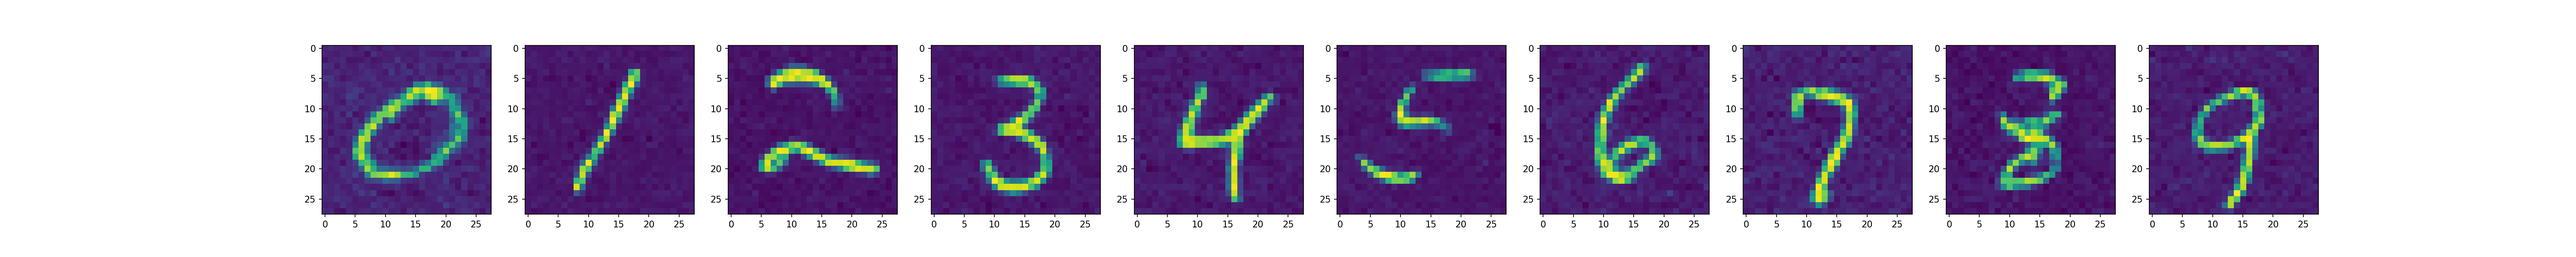
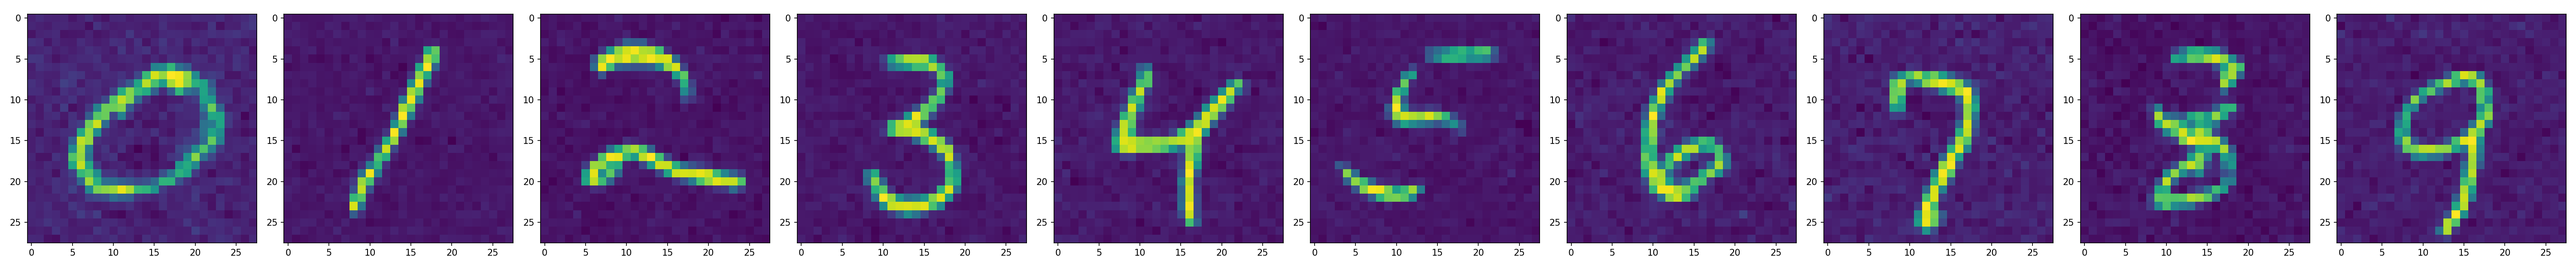
Update examples

diff --git a/examples/MNIST_continuous_bfn.py b/examples/MNIST_continuous_bfn.py
@@ -27,7 +27,7 @@ from torch_bfn.utils import str_to_torch_dtype, EMA
 
 def get_mnist() -> DataLoader:
     cuda_kwargs = {"num_workers": 1, "pin_memory": True, "shuffle": True}
-    train_kwargs = cuda_kwargs | {"batch_size": 512}
+    train_kwargs = cuda_kwargs | {"batch_size": 128}
 
     transform = transforms.Compose(
         [
@@ -81,7 +81,7 @@ def train(
         for batch in train_loader:
             X, y = batch
             X, y = X.to(device, dtype), y.to(device)
-            loss = model.loss(X, y, sigma_1=0.01).mean()
+            loss = model.loss(X, y, sigma_1=1e-3).mean()
             # loss = model.discrete_loss(X, y, sigma_1=0.01, n=30).mean()
             opt.zero_grad()
             loss.backward()
@@ -98,7 +98,7 @@ def train(
                 sigma_1=1e-5,
                 n_timesteps=20,
                 cond=sample_classes,
-                cond_scale=10.0,
+                cond_scale=7.0,
             ).squeeze(1)
             plot_samples(samples, f"outputs/mnist_samples_{epoch:03d}.png")
 
@@ -110,7 +110,7 @@ if __name__ == "__main__":
     dtype = "float32"
 
     net = Unet(
-        dim=128,
+        dim=512,
         channels=1,
         dim_mults=[1, 2, 2],
         num_classes=10,
@@ -127,7 +127,7 @@ if __name__ == "__main__":
 
     sample_classes = t.arange(10, device=t.device(device))
     samples = model.sample(
-        1, sigma_1=1e-5, n_timesteps=20, cond=sample_classes, cond_scale=10.0
+        1, sigma_1=1e-5, n_timesteps=20, cond=sample_classes, cond_scale=7.0
     ).squeeze(1)
     plot_samples(samples, "outputs/initial_mnist_samples.png")
 
@@ -139,6 +139,6 @@ if __name__ == "__main__":
     )
 
     samples = model.sample(
-        1, sigma_1=1e-5, n_timesteps=20, cond=sample_classes, cond_scale=10.0
+        1, sigma_1=1e-5, n_timesteps=20, cond=sample_classes, cond_scale=7.0
     ).squeeze(1)
     plot_samples(samples, "outputs/final_mnist_samples.png")

diff --git a/README.md b/README.md
@@ -1,4 +1,4 @@
-# Bayesian Flow Networks in PyTorch
+# Bayesian Flow Networks
 
 A PyTorch implementation of [Bayesian Flow Networks (Graves et al., 2023)](https://arxiv.org/abs/2308.07037).
 
@@ -13,8 +13,6 @@ pip install -e .
 ```
 
 ## Examples
-
-> Note: work in progress. More examples to come, including discrete data.
 
 ### Continuous Data (swiss roll)
 
